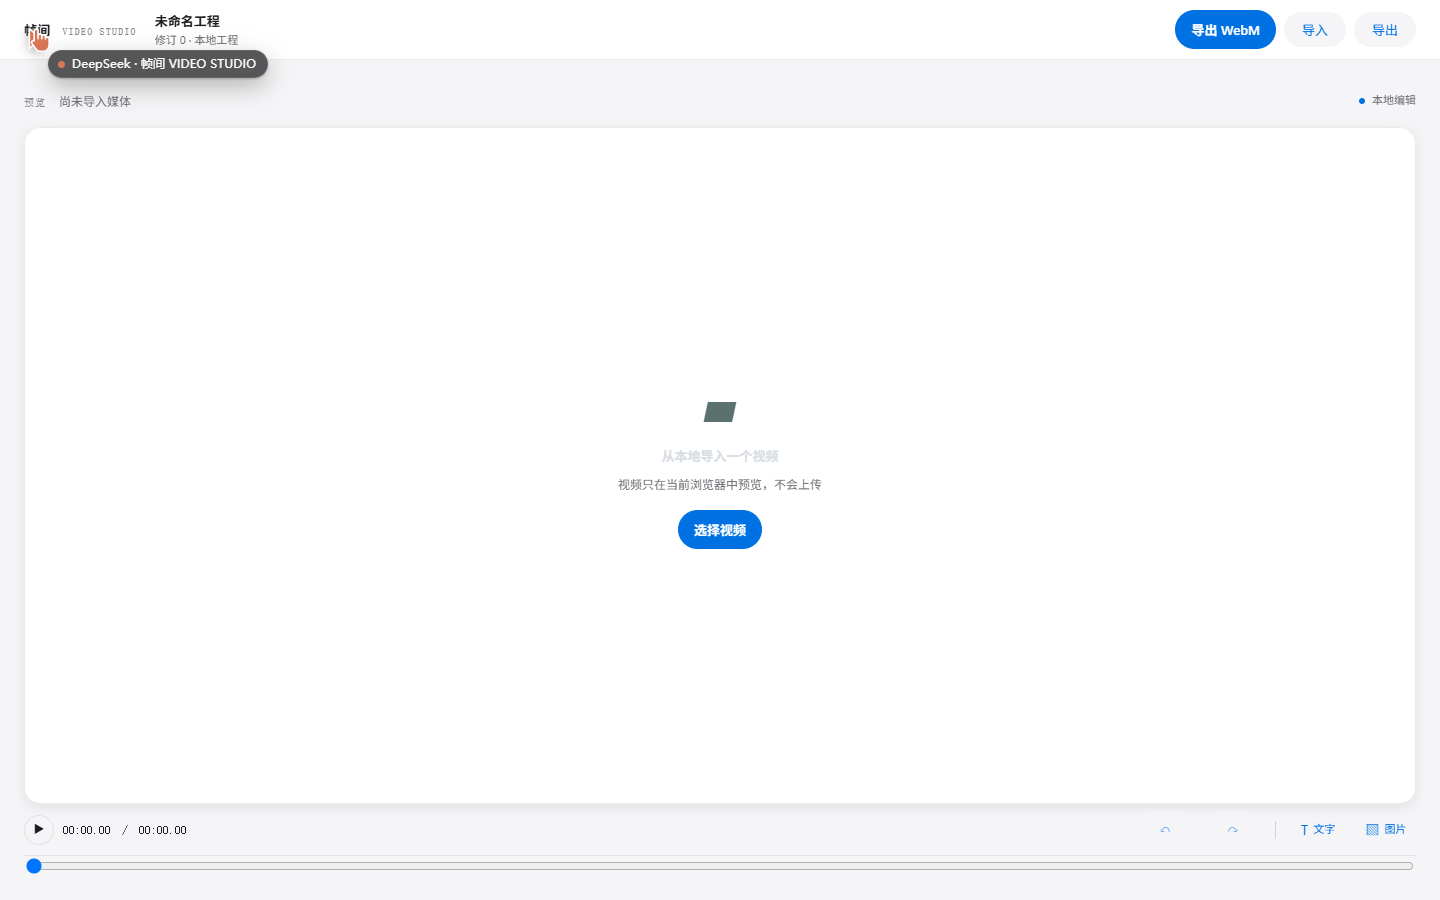
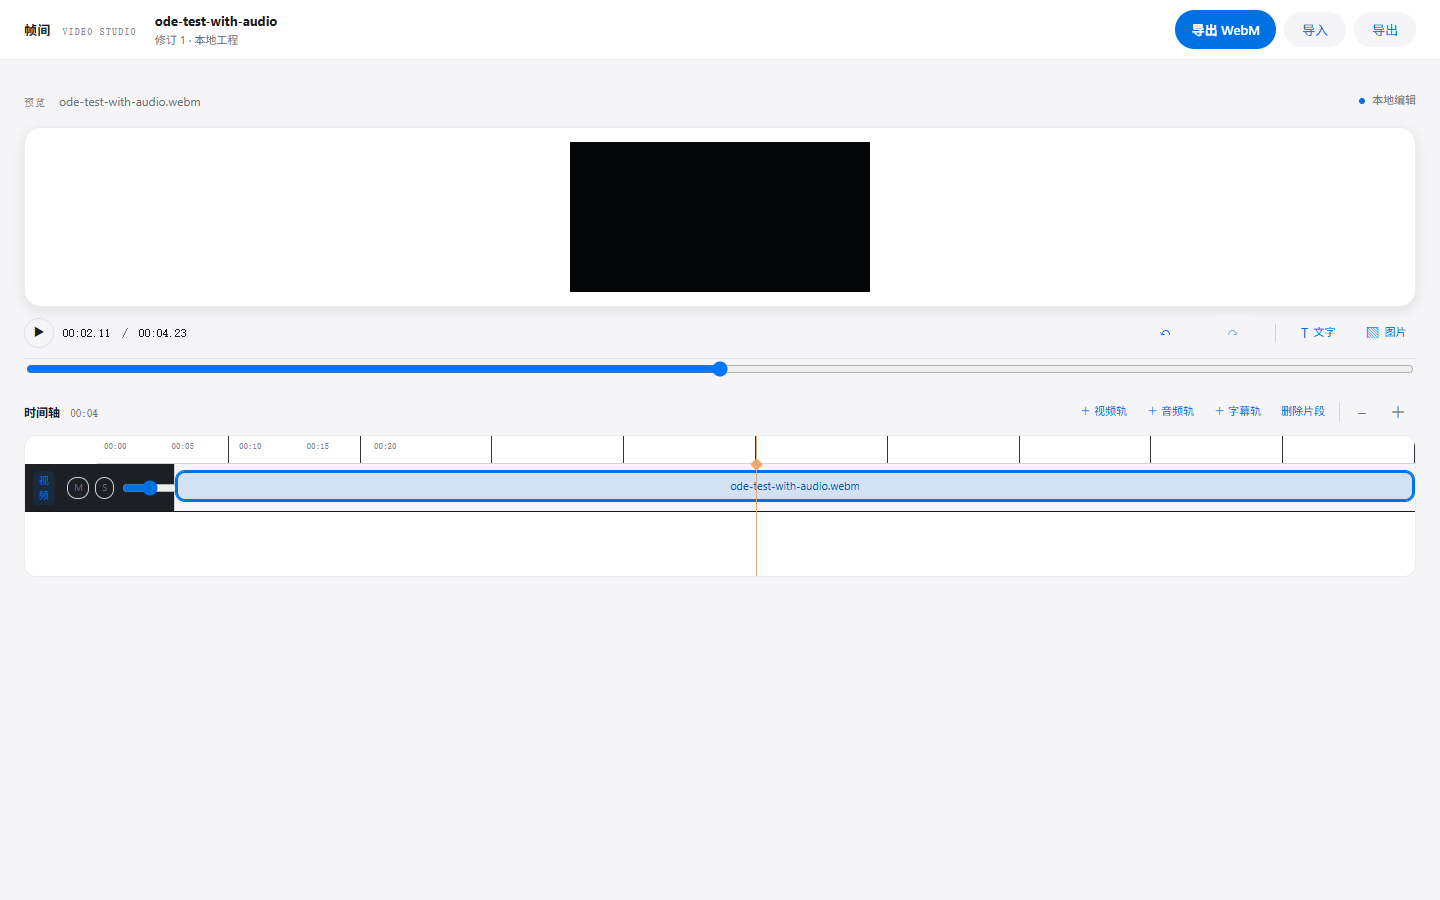
fix(video): 二次导入不再假成功；minimal 外壳显示时间轴（播放头此前恒 72px）
- 导入分支：apply() 抛 TRACK_OVERLAP 后异常未被处理，代码继续弹「视频已加入视频轨」→ 假成功。
  现在 try/catch 后 toast 真实原因并 return，且核对片段数确实增加，否则报「片段没有加入时间轴」。
- minimal 外壳把 #timeline / #track-list / #timeline-head 全部 display:none，
  多轨时间轴与播放头根本不可见；播放头 left 恒 72px 是因为 #timeline.clientWidth 为 0。
  现在保留时间轴与轨道区，只隐藏右侧检查器。
- 实测（1440x900，我自己的 8793）：二次导入 toast 变成「导入失败：该轨道在此位置已有片段（TRACK_OVERLAP）…」
  且片段数仍为 1；#timeline display:block、轨道行高 48px；
  scrubber=500（时长一半）后 timecode 00:02.11、playhead left 730.5px（此前恒 72px）。
- 说明：#scrubber 是 0..1000 的归一化滑杆，设成 2 表示 0.008s，不是 2 秒；要 2 秒请设 seconds/duration*1000。
- 截图 docs/screenshots/video-editor.png；全包 118/118。

diff --git a/plugin/dsh-media-video/public/video/video.js b/plugin/dsh-media-video/public/video/video.js
@@ -200,7 +200,19 @@ async function importVideo(file) {
       toast(legacy ? '媒体已重新连接（旧工程按文件名与大小匹配）' : '媒体已重新连接，工程内容保持不变');
       return;
     }
-    apply({ type: 'media.video.clip.add', clip: { id: crypto.randomUUID(), sourceRef: ref, name: file.name, duration, trackId: track.id, start: project().timeline.currentTime ?? 0 } });
+    // 写入失败（同位置已有片段等）必须把原因说给用户，不能"提示已加入、实际没加"。
+    const beforeCount = project().tracks.reduce((sum, item) => sum + item.clips.length, 0);
+    try {
+      apply({ type: 'media.video.clip.add', clip: { id: crypto.randomUUID(), sourceRef: ref, name: file.name, duration, trackId: track.id, start: project().timeline.currentTime ?? 0 } });
+    } catch (error) {
+      toast(`导入失败：${error && error.message ? error.message : '未知原因'}`);
+      return;
+    }
+    const afterCount = project().tracks.reduce((sum, item) => sum + item.clips.length, 0);
+    if (afterCount <= beforeCount) {
+      toast('导入失败：片段没有加入时间轴，请换个位置或先调整已有片段');
+      return;
+    }
     $('projectName').textContent = file.name.replace(/\.[^.]+$/, '');
     $('emptyStage').hidden = true;
     probeCapabilities();

diff --git a/plugin/dsh-media-video/public/video/video.css b/plugin/dsh-media-video/public/video/video.css
@@ -105,3 +105,15 @@ button:disabled{opacity:.5;cursor:not-allowed;transform:none}
 .io-options{background:var(--dsh-surface);border:1px solid var(--dsh-line);border-radius:var(--dsh-r-lg);box-shadow:0 4px 12px rgba(0,0,0,.08)}
 .minimal-editor .stage{box-shadow:0 4px 12px rgba(0,0,0,.08)}
 @media (prefers-reduced-motion: reduce){*{transition:none!important;animation:none!important;transform:none!important}}
+
+/* 视频编辑器必须显示时间轴：多轨与播放头是核心界面，minimal 外壳不能把它们藏掉。
+   只隐藏右侧检查器，保留时间轴头与轨道区。 */
+.minimal-editor .timeline-head,
+.minimal-editor .timeline,
+.minimal-editor .track-list { display: revert; }
+.minimal-editor .timeline-head { display: flex; }
+.minimal-editor .timeline { display: block; }
+.minimal-editor .track-list { display: block; }
+.minimal-editor .inspector { display: none; }
+.minimal-editor .viewer-column { height: auto; }
+.minimal-editor .workspace { height: auto; }
